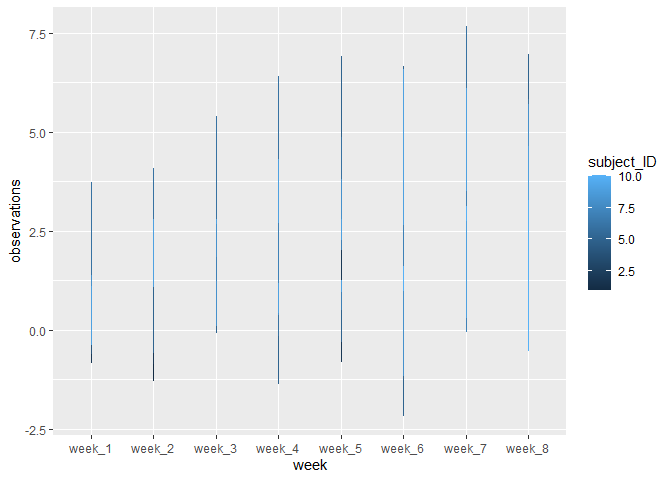
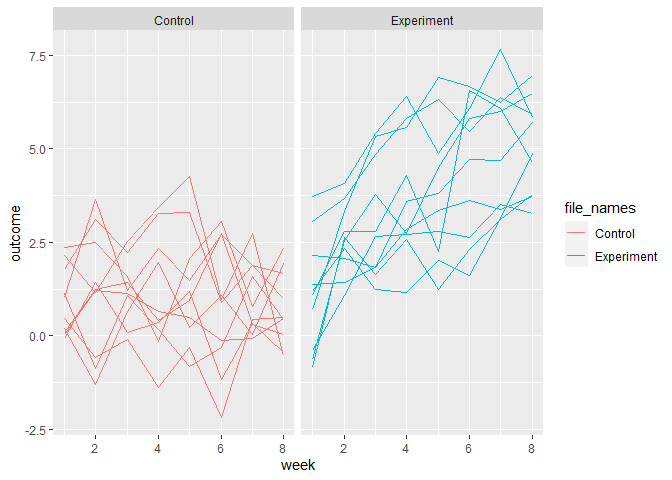
Problem 2: Editing spaghetti plot

diff --git a/p8105_hw5_jam2530.md b/p8105_hw5_jam2530.md
@@ -50,10 +50,80 @@ cleaned_df <- all_data |>
 Making a Spaghetti Plot
 
 ``` r
-cleaned_df |>
-  gather(week, observations, -subject_ID, -file_names)|>
-  ggplot(aes( x = week, y = observations, color = subject_ID)) + 
-  geom_line()
+cleaned_df_new = 
+ cleaned_df|>
+  pivot_longer(week_1:week_8,
+               names_to = "week",
+               values_to = "outcome",
+               names_prefix = "week_"
+               ) |>
+  mutate(week = as.numeric(week))
+
+cleaned_df_new |>
+  ggplot(aes(x = week, y = outcome,
+             group = subject_ID, color = file_names)) +
+  geom_path() +
+  facet_grid(~file_names)
 ```
 
 ![](p8105_hw5_jam2530_files/figure-gfm/unnamed-chunk-5-1.png)<!-- -->
+
+# Problem 3
+
+Setting design elements
+
+``` r
+set.seed(12345)
+
+n <- 30
+
+sigma <- 5
+
+mu <- 0:6
+
+alpha <- 0.05
+
+dataset_total <- 5000
+
+iteration = 1:5000
+```
+
+Creating function for hypothesis testing
+
+``` r
+sim_function = function(n, mu, sigma) {
+  test = rnorm(n, mean = mu, sd = sigma)
+  test_results = t.test(test)
+  test_results|>
+    broom::tidy()
+  
+}
+
+
+# sim_results = expand.grid(sample_size = n, true_mean = mu, iteration = 1:5000) #|>
+#   mutate(
+#    resulting_df = map2(.x = sample_size, .y = true_mean, ~ sim_t(n = .x, mu = #.y))) |>
+#   reject = case_when(
+#      alpha < 0.05 ~ "reject",
+#      alpha >= 0.05 ~ "fail_to_reject") |>
+#  unnest(resulting_df)
+
+#sim_results_df = 
+#  expand_grid(
+#    sample_size = 30,
+#    true_mean = c(1, 2, 3, 4, 5, 6),
+#    iteration = 1:5000)
+  
+#  sim_results = expand.grid(
+#    simulation = map(mu = 0, iteration = 1:5000, ~ t.test(rnorm(n, mu,    #sigma))),
+ #   reject = case_when(
+#      alpha < 0.05 ~ "reject",
+#      alpha >= 0.05 ~ "fail_to_reject")
+#    )
+```
+
+Questions for TA
+
+- For problem 2, my spaghetti plot doesn’t look right(i think i messed
+  up a variable)
+- for problem 3, when i try to make the dataframe it doesn’t look right
